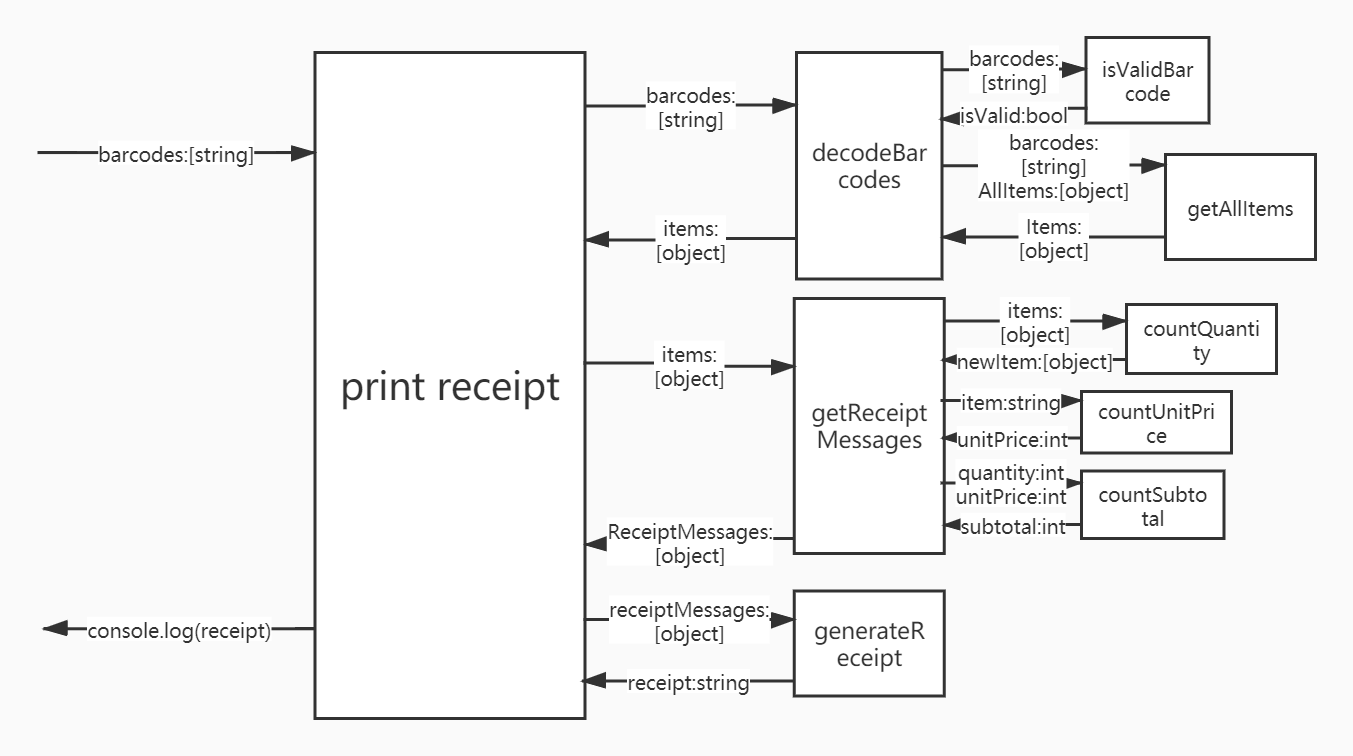
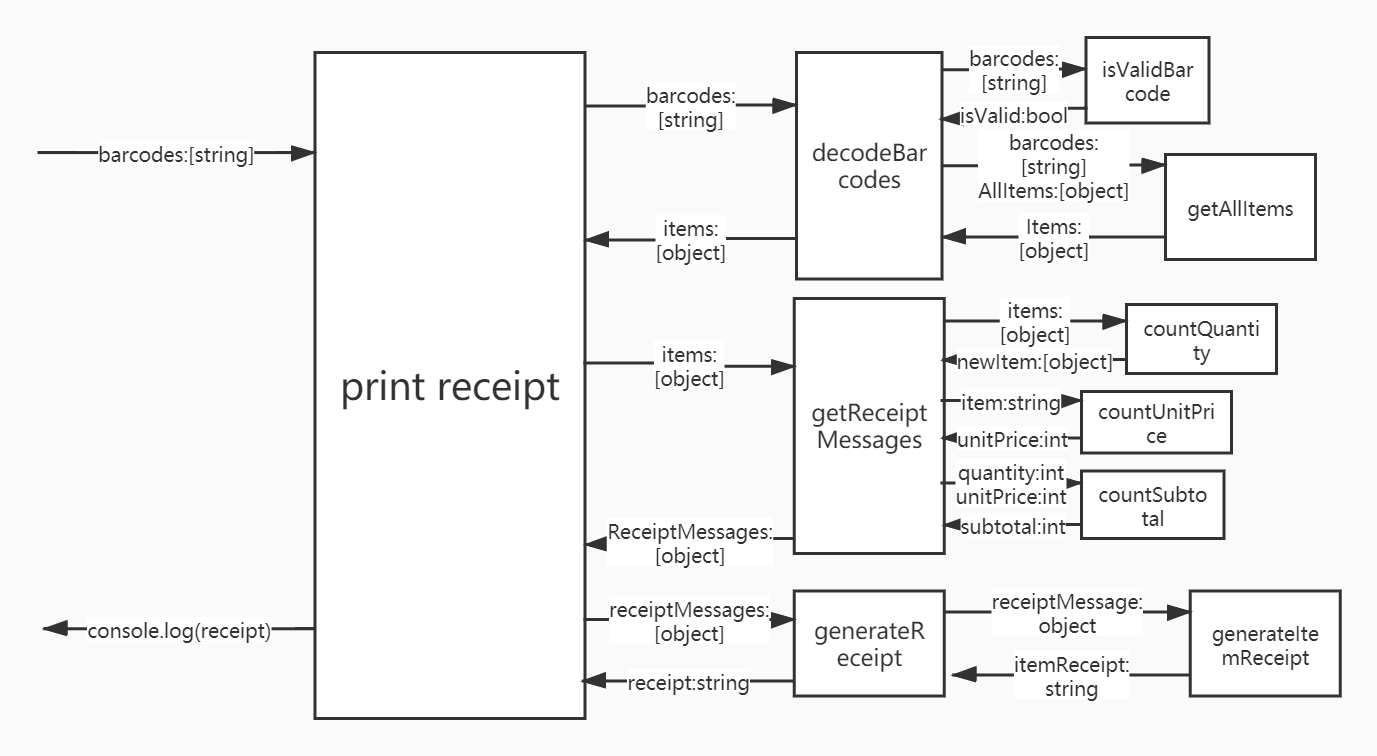
[ITA-CLASS2-GROUP2][TEDDY.LIN][FEATURE]:Coding Review

diff --git a/main.js b/main.js
@@ -1,6 +1,6 @@
 function printReceipt(barcodes) {
     const items = decodeBarcodes(barcodes);
-    const receipt = generateReceipt(getReceiptMessages(items));
+    const receipt =(items===null)?null:generateReceipt(getReceiptMessages(items));
     console.log(receipt);
 }
 
@@ -108,13 +108,17 @@ function generateReceipt(receiptMessages){
     receipt.push("\n***<store earning no money>Receipt ***");
     for(let i=0;i<receiptMessages.length;i++){
         total+=receiptMessages[i].subtotal;
-        receipt.push('Name: '+receiptMessages[i].name+', Quantity: '+receiptMessages[i].quantity+
-            ', Unit price: '+receiptMessages[i].unitPrice+' (yuan), Subtotal: '+receiptMessages[i].subtotal+' (yuan)');    
+        receipt.push(generateItemReceipt(receiptMessages[i]));
     }
     receipt.push('----------------------');
     receipt.push(`Total: ${total} (yuan)`);
     receipt.push('**********************');
     return receipt.join('\n');
+}
+
+function generateItemReceipt(receiptMessage){
+    return ('Name: '+receiptMessage.name+', Quantity: '+receiptMessage.quantity+
+            ', Unit price: '+receiptMessage.unitPrice+' (yuan), Subtotal: '+receiptMessage.subtotal+' (yuan)');
 }
 
 module.exports = {
